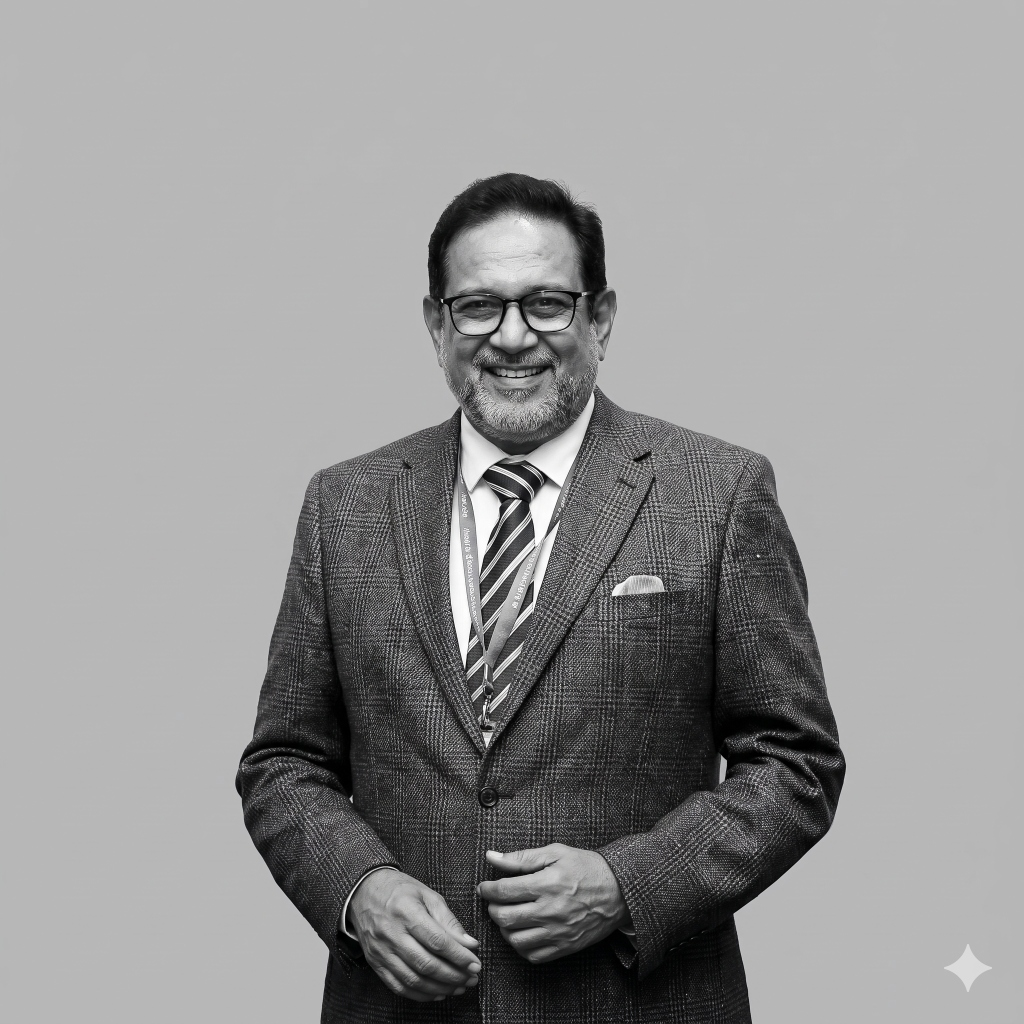
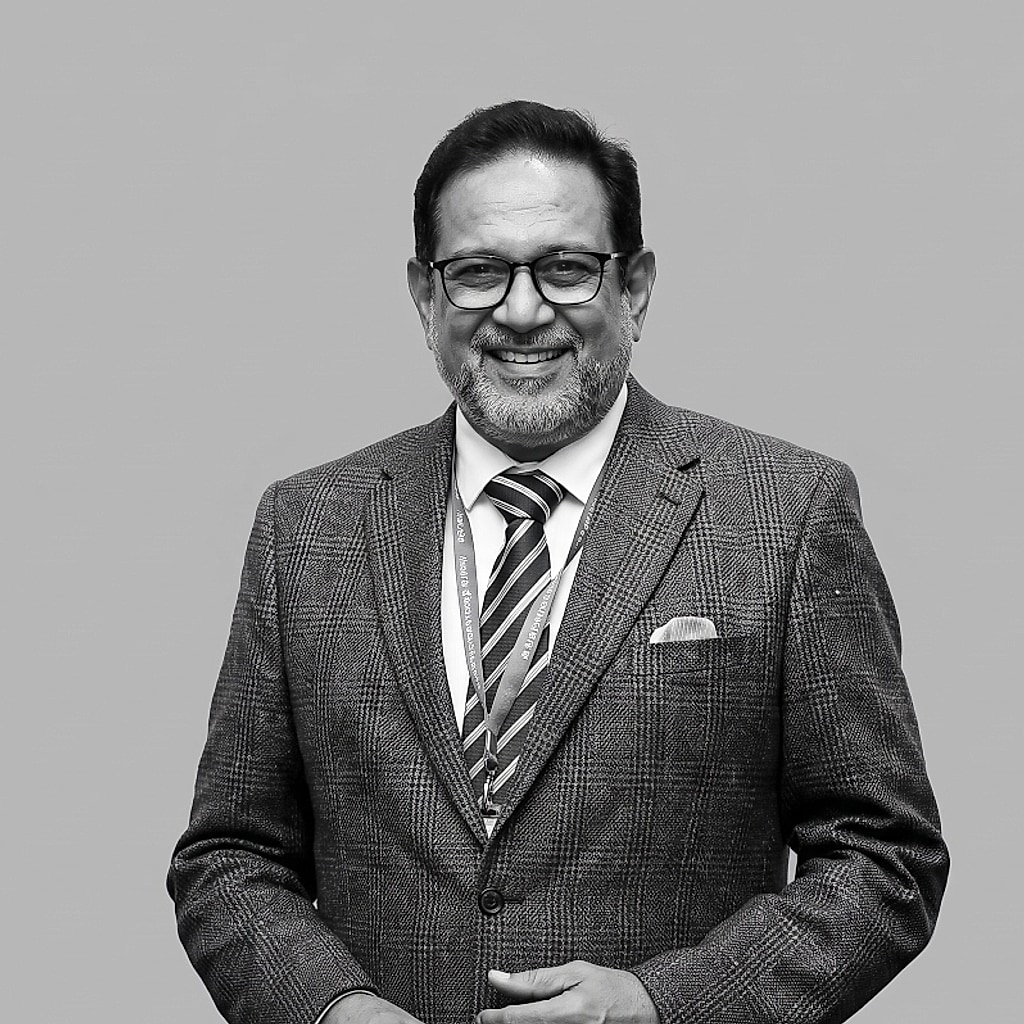
feat: align head position, scale and headroom of Arshad Ayub to match Premanand J. in Perspectives carousel

diff --git a/src/components/home/TestimonialCarousel.tsx b/src/components/home/TestimonialCarousel.tsx
@@ -92,7 +92,7 @@ const testimonials: Testimonial[] = [
     chapter: "Hyderabad Conclave Chief Guest",
     highlight: "Chief Guest",
     image: "/testimonials/arshad-ayub-v2.jpg",
-    imagePosition: "50% 12%",
+    imagePosition: "50% 20%",
   },
   {
     quote:
